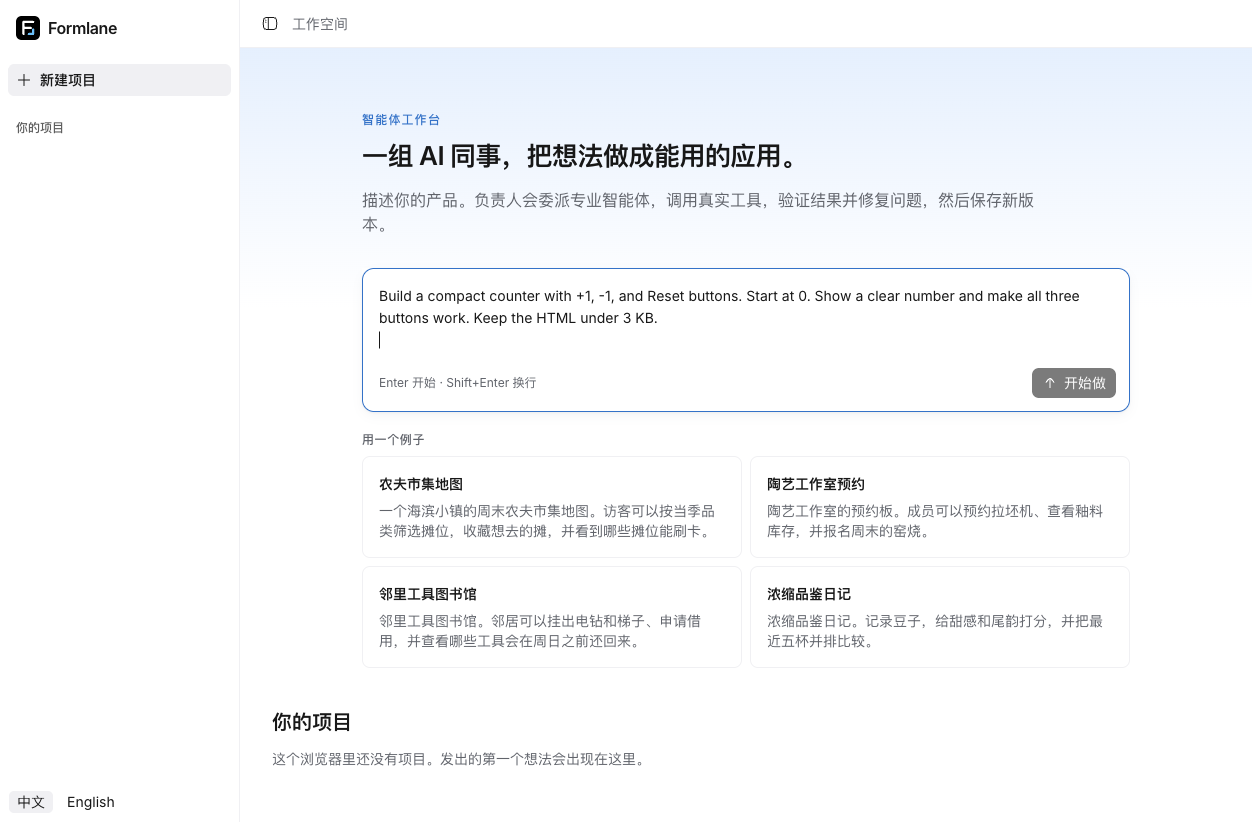
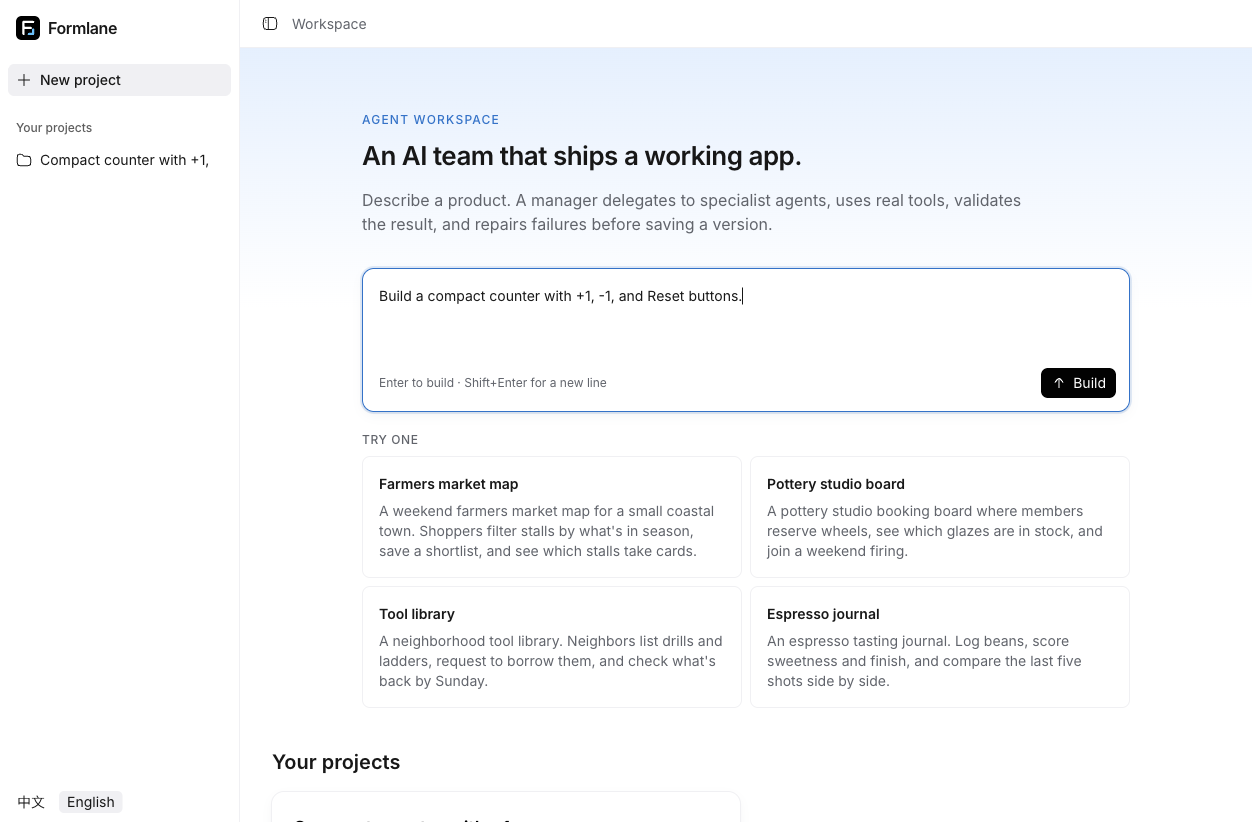
fix: retain prompts after failed creation

diff --git a/apps/web/src/pages/HomePage.tsx b/apps/web/src/pages/HomePage.tsx
@@ -73,7 +73,13 @@ export function HomePage() {
             : (parsed.error.issues[0]?.message ?? t('atoms.ideaRequired')),
         )
       }
-      await create.mutateAsync({ idea: parsed.data })
+      try {
+        await create.mutateAsync({ idea: parsed.data })
+      } catch (error) {
+        throw new MessageNotSentError(
+          error instanceof Error ? error.message : t('atoms.requestError'),
+        )
+      }
     },
   })
   const error = create.error ?? projects.error ?? health.error

diff --git a/docs/operations/deployment.md b/docs/operations/deployment.md
@@ -20,6 +20,8 @@ The assistant-ui redesign was exercised against the real production API from an 
 
 Retry run `26e3ede7-fe43-448c-a64f-ba6b82e497ee` completed and saved the second version of verification project `05bd6c58-5ede-4aa4-9e1b-415c7b885a43`. Mobile panel switching preserved an unsent draft. The screenshots linked from the README show this completed local frontend verification against the production API.
 
+A browser-only HTTP 500 fixture reproduced prompt loss on failed project creation. Mapping that rejection to assistant-ui's `MessageNotSentError` restored the exact unsent prompt while retaining the visible server error. The same browser check passed after the fix; reloading removed the fixture and no project was created by either failed request.
+
 On 2026-11-11, acceptance fix `0f8d673` was deployed to GCP. Both real-browser regression tests passed there under the non-root `formlane` account with Chromium sandboxing enabled. Revision `3bb34b3` then passed [CI lint, typecheck, tests and build](https://github.com/Muluk-m/formlane/actions/runs/42987607630), using system Chrome for Ubuntu AppArmor compatibility. A real-provider SDK probe terminated successfully at its review tool within one model turn.
 
 Grok verification passed both non-streaming and streaming SDK tool calls. A probe using the production HTML/check schema generated a 442-character interactive counter and two checks in 11.4 seconds, then passed the real sandboxed browser validator in 15.3 seconds. This establishes schema and runtime compatibility, not full market-app acceptance. Grok run `924bb1c3-780b-4d0f-b47b-7d65bc43579c` failed with a terminated HTTP response stream. Fix `00a999a` classifies this transport error for the existing bounded provider retries; its real socket-disconnection regression and [CI](https://github.com/Muluk-m/formlane/actions/runs/42992766223) passed, and the executor fix was deployed.

diff --git a/docs/internals/code-standards.md b/docs/internals/code-standards.md
@@ -22,7 +22,7 @@ Provider/browser execution belongs in `apps/executor`, outside the API Worker an
 
 TanStack Router owns routes; TanStack Query/oRPC helpers own CRUD server state. Centralize query options and invalidation rather than calling a hand-written REST client from every component. SSE observes persisted run events and resumes by sequence cursor; it does not own producer execution.
 
-Use shared Base UI primitives/composites and variants, not native replacement controls or local appearance overrides. Use Skyline tokens and Hugeicons at 1.5 stroke width. All visible text and accessible names come from the single catalog. Forms use React Hook Form/Zod with server errors retained and understandable.
+Use shared Base UI primitives/composites and variants, not native replacement controls or local appearance overrides. Agent and conversation surfaces use assistant-ui through shared composites. Use Skyline tokens and Hugeicons at 1.5 stroke width. All visible text and accessible names come from the single catalog. Validate input with Zod, retain drafts on failed submission, and keep server errors understandable.
 
 Generated HTML is untrusted. Maintain the sandbox and explicit viewed/current/published version distinctions. An error must not clear user input or the last complete preview.
 

diff --git a/docs/internals/architecture.md b/docs/internals/architecture.md
@@ -21,7 +21,7 @@ Packages never depend on applications. The web imports contract types from contr
 
 ## API and query boundary
 
-CRUD is contract-first oRPC: Zod schemas and procedure metadata are shared; the server implements that contract and the web uses `createORPCClient`, `OpenAPILink`, and `createTanstackQueryUtils`. TanStack Query owns request caching/invalidation and Router owns navigation. React Hook Form/Zod owns editable form state and client validation, without duplicating server authority.
+CRUD is contract-first oRPC: Zod schemas and procedure metadata are shared; the server implements that contract and the web uses `createORPCClient`, `OpenAPILink`, and `createTanstackQueryUtils`. TanStack Query owns request caching/invalidation and Router owns navigation. assistant-ui owns conversation drafts and submission; Zod validates input without duplicating server authority.
 
 Generation and follow-up requests start durable runs and return run identity. The browser observes a separate owned run-event SSE endpoint, replaying from `after` or `Last-Event-ID`. Disconnect aborts only observation. Downloads and `/p/:slug` remain HTTP document endpoints, not a second generic CRUD client.
 

diff --git a/LESSONS.md b/LESSONS.md
@@ -4,6 +4,8 @@ Read before changing a related area. Entries distinguish observed migration mist
 
 ## This migration
 
+- **2026-11-11 — assistant-ui clears a draft before the host accepts it.** A plain rejected project-creation promise left the homepage input empty. Reject failed submissions with `MessageNotSentError` so the runtime restores the draft, and exercise the visible input after an actual browser error response.
+
 - **2026-11-11 — Retry displayed a stale project failure beside an active run.** Project details and run observations refresh independently. Once a current run is known, its lifecycle is authoritative for generation errors; do not combine it with a cached failure from an older run. Keep transport and action failures separately visible.
 
 - **2026-11-11 — Text acceptance disagreed with its polling condition.** Polling accepted contained text, but the final verdict still required equality, so `Saved Ada` failed an expectation of `Saved`. Reuse the match result and exercise the real browser path. Reducing model turn limits or changing prompts does not fix false validation failures; use SDK tool termination for completed specialist work.

diff --git a/DESIGN.md b/DESIGN.md
@@ -494,7 +494,7 @@ Use sticky sunken headers with caption text. Text columns align left; numeric co
 
 ### Forms
 
-Use React Hook Form, Zod, and the shared Field family. Put field errors below their control, retain input after server errors, and treat server validation as authoritative. Disable submission while pending and show active wording/spinner without changing the button width. Mark optional fields in the label rather than adding required asterisks. Keep business schemas in contracts rather than creating divergent frontend copies.
+Conversation drafts and submission use assistant-ui with Zod validation. Other editable fields use the shared Field family. Put field errors below their control, retain input after server errors, and treat server validation as authoritative. Disable submission while pending and show active wording/spinner without changing the button width. Mark optional fields in the label rather than adding required asterisks. Keep business schemas in contracts rather than creating divergent frontend copies.
 
 ### Feedback and accessibility
 
